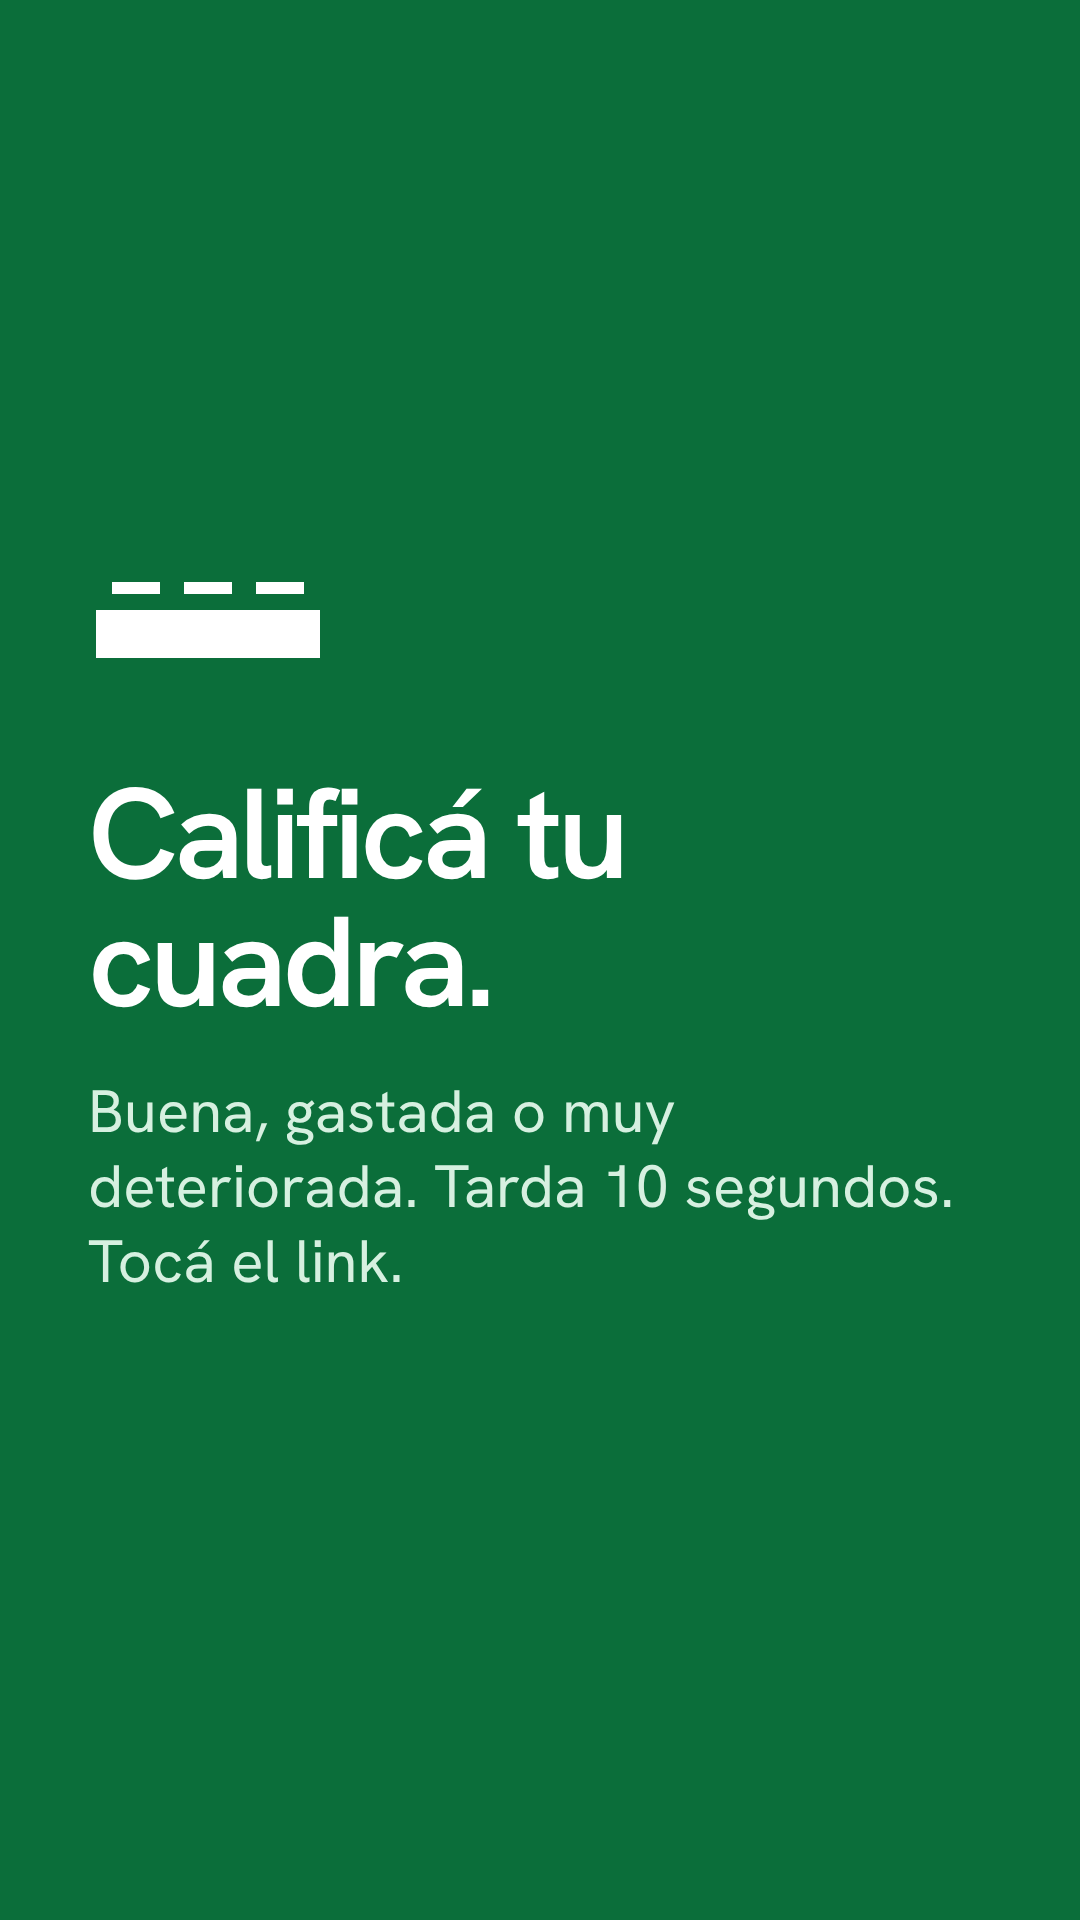
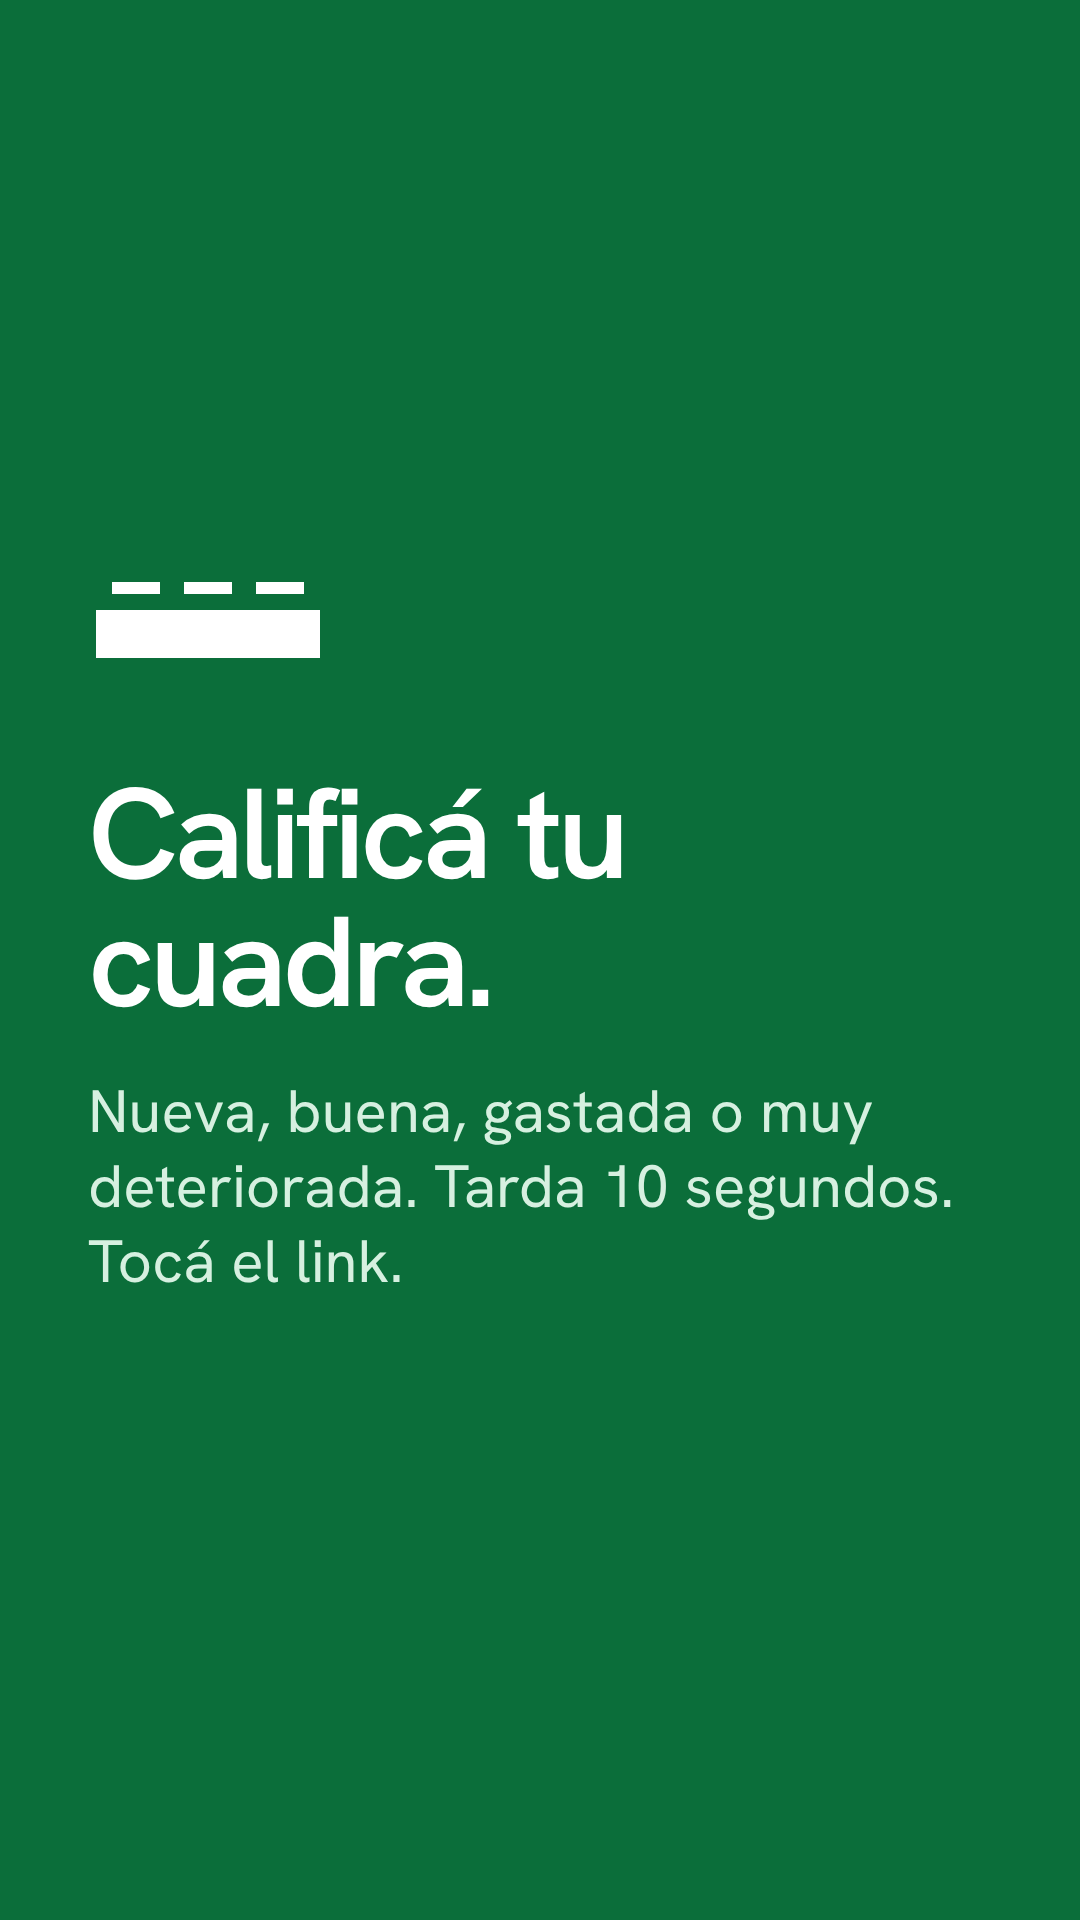
Dominio pocitos.com.ar; placas y textos de Instagram sin datos que vencen
- SITE (metadatos, OG, sitemap) apunta a https://pocitos.com.ar en Vercel; mail hola@pocitos.com.ar.
- Instagram: el link del perfil y los textos muestran pocitos.com.ar; '0 relevadas' pasa a 'Las medimos
  entre todos'; las opciones de calificar incluyen Nueva. Placas regeneradas.

Claude-Session: https://claude.ai/code/session_01TZnBzw1ZtGd9B6R8QxpS15

Changed region(s): [[0.0917, 0.5625, 0.7944, 0.5938]]

diff --git a/src/app/privacidad/page.tsx b/src/app/privacidad/page.tsx
@@ -44,7 +44,7 @@ export default function PrivacidadPage() {
         <p>Los servicios donde está alojada la app (Cloudflare, Vercel y Supabase) registran datos técnicos como la IP en sus propios sistemas, por seguridad y por un tiempo limitado. Pocitos LP no accede a esos registros para identificar a nadie y configura la retención mínima posible.</p>
         <p>El captcha invisible es Cloudflare Turnstile: para distinguir personas de bots analiza datos técnicos del navegador según su <a href="https://www.cloudflare.com/turnstile-privacy-policy/">Anexo de Privacidad de Turnstile</a>. No usa cookies de seguimiento ni se usa para publicidad.</p>
         <p>Las fotos se publican recién cuando otra persona confirmó el problema. Si una foto muestra a alguien o una patente, denunciala desde la cuadra y se oculta.</p>
-        <p>Este tratamiento se rige por la Ley 25.326 de Protección de los Datos Personales. Como no se recolectan datos personales, no hay datos que consultar, rectificar o borrar; si igual tenés una consulta, escribinos a <a href="mailto:hola@pocitoslp.com.ar">hola@pocitoslp.com.ar</a>.</p>
+        <p>Este tratamiento se rige por la Ley 25.326 de Protección de los Datos Personales. Como no se recolectan datos personales, no hay datos que consultar, rectificar o borrar; si igual tenés una consulta, escribinos a <a href="mailto:hola@pocitos.com.ar">hola@pocitos.com.ar</a>.</p>
       </Block>
     </Page>
   );

diff --git a/src/app/layout.tsx b/src/app/layout.tsx
@@ -7,10 +7,8 @@ import { ThemeToggle, themeInitScript } from "@/components/theme";
 import { isDemo } from "@/lib/data";
 import "./globals.css";
 
-// En Vercel, si no se configuró el dominio propio, se usa la URL de producción del proyecto.
-const SITE =
-  process.env.NEXT_PUBLIC_SITE_URL ??
-  (process.env.VERCEL_PROJECT_PRODUCTION_URL ? `https://${process.env.VERCEL_PROJECT_PRODUCTION_URL}` : "http://localhost:3000");
+// Dominio propio en Vercel; en desarrollo, localhost.
+const SITE = process.env.NEXT_PUBLIC_SITE_URL ?? (process.env.VERCEL ? "https://pocitos.com.ar" : "http://localhost:3000");
 
 export const metadata: Metadata = {
   metadataBase: new URL(SITE),
@@ -102,7 +100,7 @@ function Footer() {
         </div>
         <div className="flex flex-col bg-asphalt-2 p-5 sm:col-span-2 lg:col-span-3 lg:min-h-48 lg:justify-end">
           <p className="text-small text-asphalt-ink-2">Contacto</p>
-          <a href="mailto:hola@pocitoslp.com.ar" className="text-lead hover:underline">hola@pocitoslp.com.ar</a>
+          <a href="mailto:hola@pocitos.com.ar" className="text-lead hover:underline">hola@pocitos.com.ar</a>
         </div>
         <div className="hidden min-h-40 items-center justify-center bg-asphalt-ink text-asphalt sm:col-span-2 sm:flex lg:col-span-8 lg:min-h-80">
           <p aria-hidden className="text-[clamp(3.5rem,9vw,9rem)] font-semibold leading-none tracking-[-0.05em]">Pocitos LP</p>

diff --git a/scripts/import-osm.ts b/scripts/import-osm.ts
@@ -46,7 +46,7 @@ async function main() {
   // Overpass rechaza (406) los pedidos sin un User-Agent que identifique a la app.
   const res = await fetch(OVERPASS, {
     method: "POST",
-    headers: { "User-Agent": "PocitosLP/0.1 (+mailto:hola@pocitoslp.com.ar)", Accept: "application/json" },
+    headers: { "User-Agent": "PocitosLP/0.1 (+mailto:hola@pocitos.com.ar)", Accept: "application/json" },
     body: new URLSearchParams({ data: query }),
   });
   if (!res.ok) throw new Error(`Overpass respondió ${res.status}: ${(await res.text()).slice(0, 300)}`);

diff --git a/src/app/prensa/page.tsx b/src/app/prensa/page.tsx
@@ -52,7 +52,7 @@ export default function PrensaPage() {
         </ul>
       </Block>
       <Block title="Contacto">
-        <p><a href="mailto:hola@pocitoslp.com.ar">hola@pocitoslp.com.ar</a></p>
+        <p><a href="mailto:hola@pocitos.com.ar">hola@pocitos.com.ar</a></p>
       </Block>
     </Page>
   );

diff --git a/instagram/README.md b/instagram/README.md
@@ -12,7 +12,8 @@ Todo lo de la cuenta está acá. Lo visual se regenera con `node scripts/instagr
 
 - [ ] Cuenta `@pocitoslp` creada y pasada a profesional (`perfil/perfil.md`).
 - [ ] Foto, nombre, bio y link cargados.
-- [ ] El mail `hola@pocitoslp.com.ar` existe (o se cambia en la web y en el perfil).
+- [ ] El mail `hola@pocitos.com.ar` existe (Cloudflare → Email → Email Routing: reenvía a tu Gmail, gratis).
+- [ ] `pocitos.com.ar` y `www.pocitos.com.ar` cargados en Cloudflare → Turnstile → Hostnames.
 - [ ] **Enviar un reporte de prueba desde el celular y que se guarde** (necesita la clave pública de Turnstile en Vercel).
 
 ## Día del lanzamiento
@@ -49,9 +50,9 @@ Desde el celular también se puede: al crear el posteo, **Configuración avanzad
 
 Por eso armamos Pocitos LP: un mapa abierto del casco urbano donde cualquier vecino puede reportar un pozo, un parche mal hecho o calificar cómo está su cuadra.
 
-Son 3.955 cuadras. Hoy no hay ninguna relevada. Empezamos ahora, entre todos.
+Son 3.955 cuadras y las medimos entre todos: cada vecino que califica la suya suma.
 
-Anónimo, sin cuentas, sin publicidad. Link en la bio.
+Anónimo, sin cuentas, sin publicidad. pocitos.com.ar (link en la bio).
 
 #LaPlata #CallesDeLaPlata #CascoUrbano #Pozos
 ```
@@ -69,7 +70,7 @@ Los parches mal hechos (elevados, hundidos o desarmados) también se reportan.
 
 Lo puede reportar cualquiera que pase. Si otro vecino lo confirma, cuenta.
 
-Link en la bio.
+pocitos.com.ar (link en la bio).
 
 #LaPlata #Pozos #Bacheo #CallesDeLaPlata
 ```
@@ -83,7 +84,7 @@ Por eso en Pocitos LP se miden por separado. Calificar tu cuadra tarda 10 segund
 
 ¿La repavimentaron? Avisanos: también cuenta.
 
-Link en la bio.
+pocitos.com.ar (link en la bio).
 
 #LaPlata #CallesDeLaPlata #Asfalto
 ```
@@ -98,7 +99,7 @@ Cómo leer el tablero de Pocitos LP:
 - El casco se divide en 36 zonas entre avenidas.
 - Una zona entra al ranking cuando tiene al menos el 20% relevado.
 
-Cuantos más vecinos se suman, más preciso es el mapa. Link en la bio.
+Cuantos más vecinos se suman, más preciso es el mapa. pocitos.com.ar (link en la bio).
 
 #LaPlata #DatosAbiertos #CallesDeLaPlata
 ```
@@ -113,7 +114,7 @@ Tu anonimato, en Pocitos LP:
 - Las fotos se limpian en tu celular antes de subirse: sin ubicación, sin fecha, sin modelo de teléfono.
 - Sin publicidad, sin rastreadores, sin venta de datos.
 
-En la web podés ver campo por campo qué se guarda. Link en la bio.
+En la web podés ver campo por campo qué se guarda. pocitos.com.ar (link en la bio).
 
 #LaPlata #Privacidad
 ```
@@ -127,7 +128,7 @@ En la web podés ver campo por campo qué se guarda. Link en la bio.
 - Cada mes vamos a publicar un informe con el estado de las calles y cómo cambió, y lo vamos a mandar al municipio, al Concejo Deliberante y a los medios.
 - Si arreglan un pozo, también lo vamos a mostrar.
 
-Cuantos más vecinos se sumen, más fuerte es el dato. Sumá tu cuadra y compartilo con tu barrio. Link en la bio.
+Cuantos más vecinos se sumen, más fuerte es el dato. Sumá tu cuadra y compartilo con tu barrio. pocitos.com.ar (link en la bio).
 
 #LaPlata #CallesDeLaPlata #DatosAbiertos
 ```

diff --git a/docs/SETUP.md b/docs/SETUP.md
@@ -40,7 +40,7 @@ la calle de la plaza lleva el nombre de la plaza. El empedrado no viene en ese e
 4. **Auth** → Attack Protection: activá **Captcha** con Turnstile y la clave secreta.
 5. **Edge Function**:
    ```bash
-   npx supabase secrets set HMAC_SECRET="$(openssl rand -hex 32)" TURNSTILE_SECRET=... ALLOWED_ORIGIN=https://pocitoslp.com.ar
+   npx supabase secrets set HMAC_SECRET="$(openssl rand -hex 32)" TURNSTILE_SECRET=... ALLOWED_ORIGIN=https://pocitos.com.ar
    npx supabase functions deploy submit
    ```
    ⚠ Guardá `HMAC_SECRET` en un gestor de contraseñas. Si se pierde, los votos viejos no se pueden deduplicar con los nuevos. Si se filtra, rotalo.
@@ -57,7 +57,7 @@ Creá un sitio en Cloudflare → Turnstile (modo **Invisible / Managed**). La *s
 
 1. Importá el repo en Vercel.
 2. Variables: copiá las de `.env.example` (solo las `NEXT_PUBLIC_*`).
-3. Dominio (`pocitoslp.com.ar` vía NIC Argentina), con Cloudflare como DNS/proxy y una regla de **rate limiting** para `/functions/v1/submit` (ej. 30 pedidos / 10 min por IP).
+3. Dominio (`pocitos.com.ar` vía NIC Argentina), con Cloudflare como DNS/proxy y una regla de **rate limiting** para `/functions/v1/submit` (ej. 30 pedidos / 10 min por IP).
 4. Configurá **límites de gasto** en Vercel, Supabase y Cloudflare.
 
 ## 5. Antes de lanzar (docs/SEGURIDAD.md §8)

diff --git a/instagram/perfil/perfil.md b/instagram/perfil/perfil.md
@@ -9,8 +9,8 @@ Todo lo que se carga una sola vez al crear la cuenta.
 | Foto de perfil | `foto-de-perfil.png` (el corte de una calle con un pozo, sobre amarillo pintura vial) |
 | Tipo de cuenta | Profesional → **Empresa** (permite programar posteos y mostrar el botón de mail) |
 | Categoría | **Comunidad** |
-| Link | la dirección de la web (`https://first-rosy-ten.vercel.app` hasta tener dominio propio) |
-| Mail de contacto | `hola@pocitoslp.com.ar` (tiene que existir antes de mostrarlo) |
+| Link | `https://pocitos.com.ar` |
+| Mail de contacto | `hola@pocitos.com.ar` (tiene que existir antes de mostrarlo: Cloudflare → Email → Email Routing, gratis, reenvía a tu mail) |
 | Botones de acción | Solo "Enviar correo". Sin teléfono ni dirección: el proyecto es anónimo. |
 
 ## Bio (137 de 150 caracteres)

diff --git a/docs/DIFUSION.md b/docs/DIFUSION.md
@@ -28,7 +28,7 @@ Reglas de tono (para todas las redes):
 - Tono: platense, cercano y con humor, pero serio con los números.
 - Visual: fondo oscuro tipo "asfalto", colores del tablero (🟢🟡🔴🔵) y tipografía grande para los números.
   Cada placa tiene **un solo número protagonista**.
-- Email del proyecto (por ejemplo, `hola@pocitoslp.com.ar`), separado del personal, para la prensa y el municipio.
+- Email del proyecto (por ejemplo, `hola@pocitos.com.ar`), separado del personal, para la prensa y el municipio.
 - Bio de Instagram:
   > 🕳 El estado real de las calles de La Plata, medido por vecinos
   > 📍 Casco urbano · 🔒 100% anónimo · 📊 Datos abiertos

diff --git a/docs/PLAN.md b/docs/PLAN.md
@@ -582,4 +582,4 @@ saltándose la app (ver `SEGURIDAD.md`). Una foto que pasó por la app nunca lle
 - **Sesgo de reporte**: mostrar la cantidad de aportes por zona y exigir un % relevado mínimo para el ranking.
 - **Calibración** de umbrales y pesos con datos reales (tabla `config`).
 - **Fotos con personas o patentes**: aviso + moderación por votos `falso` en el MVP; blur automático después.
-- Dominio: ¿`pocitoslp.com.ar`?
+- Dominio: `pocitos.com.ar`.
